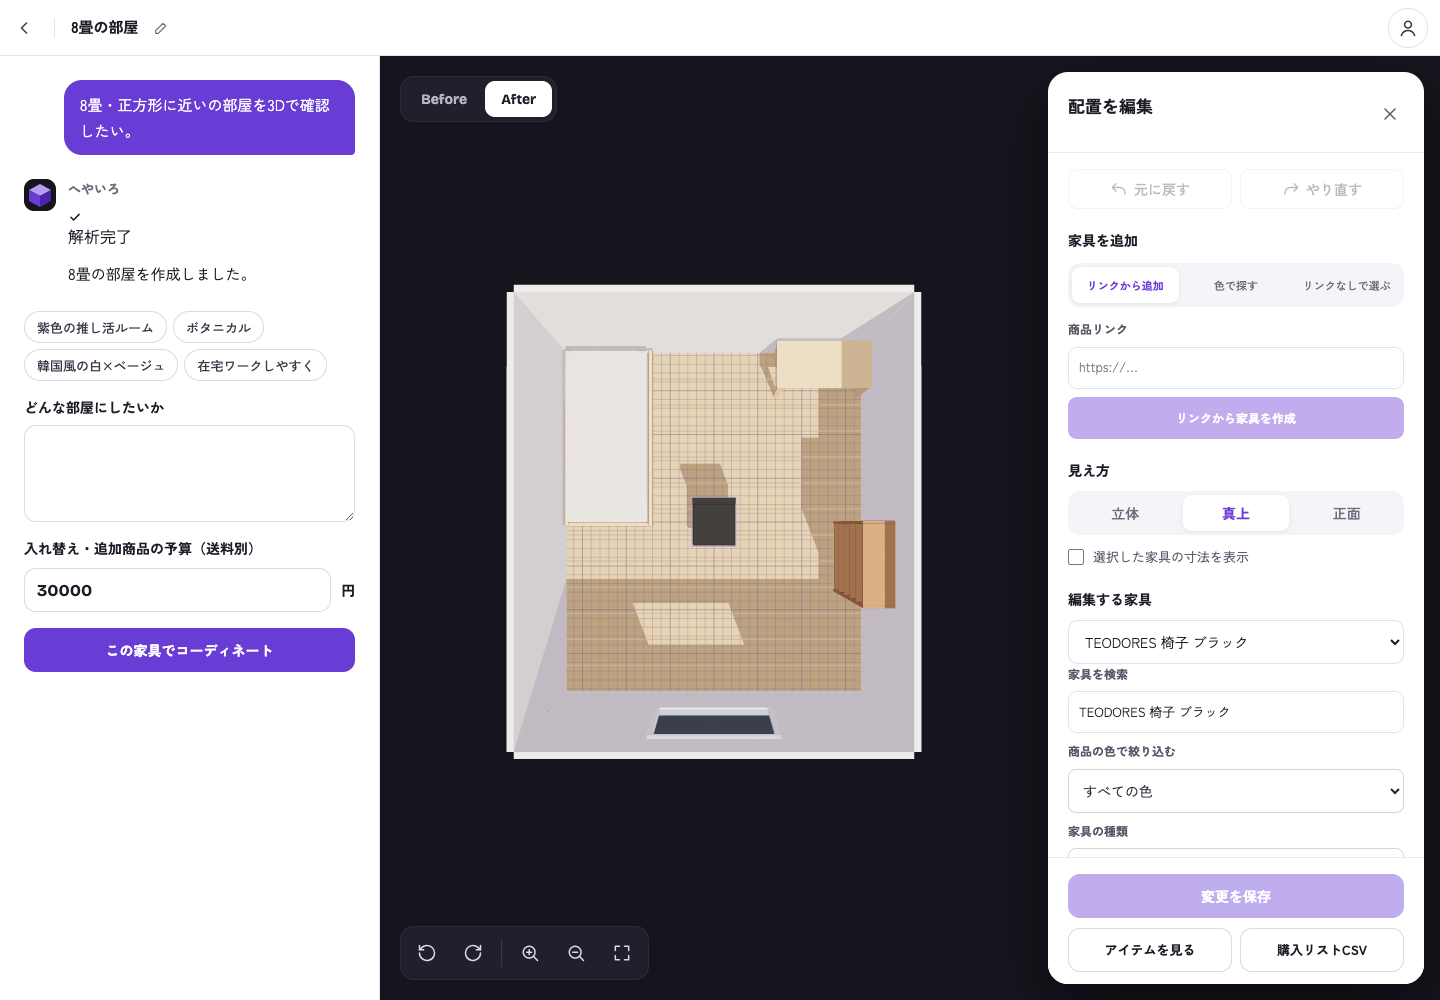
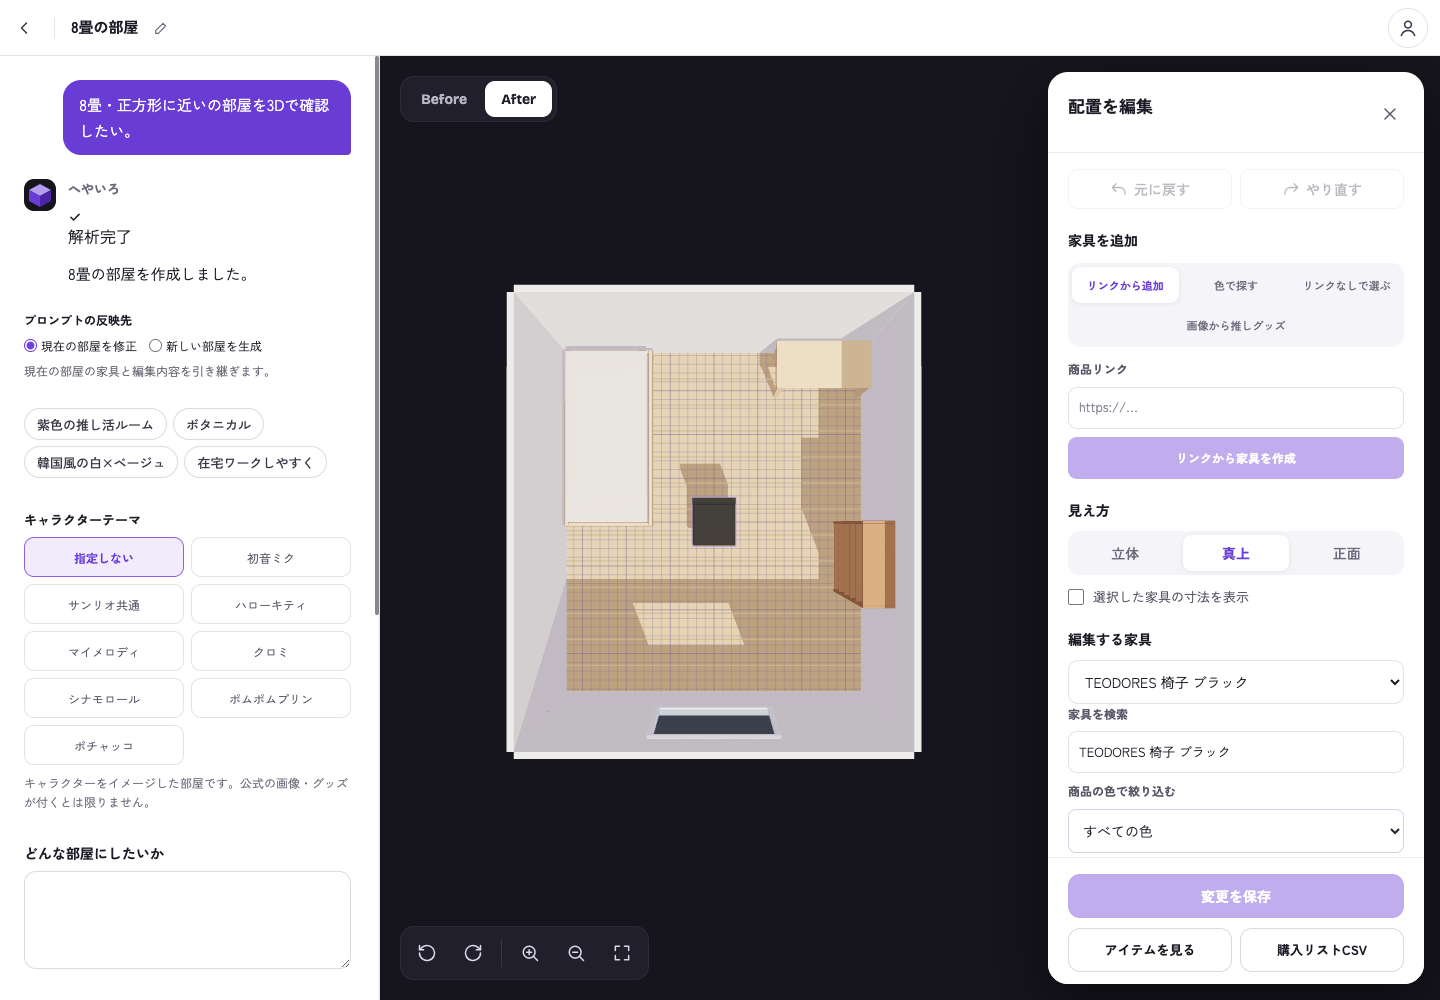
Refresh final integrated manual replacement evidence

diff --git a/docs/pr-evidence/issue-79/README.md b/docs/pr-evidence/issue-79/README.md
@@ -8,7 +8,7 @@ The screenshots use the actual React/Three.js editor on an isolated browser cont
 4. Another reversible product selection and undo returns to the saved black chair; the saved original replacement action remains replace. Original-to-replacement undo was observed earlier, before the final undo operation-state fix. Final original-operation reset was reviewed in code, not rerun from a cleared saved overlay.
 5. At 390 × 844 the editor has no horizontal page overflow, but the inherited split-pane layout leaves the editor too narrow; responsive layout is tracked separately in #70. [Mobile editor](mobile-replacement.png).
 
-Final manual UI check: add the white product through the existing link palette (owned ecProductId 791), replace it with the verified black product (purchase ecProductId 792), save/reload, and capture the actual frontend request. It retains ec_product_id 791 and sends replacement_ec_product_id 792 for the same manual UUID, with action replace. [Manual replacement after reload](manual-purchase.png). No browser page errors occurred.
+Final manual UI check: add the white product through the existing link palette (owned ecProductId 791), replace it with the verified black product (purchase ecProductId 792), save/reload, and capture the actual frontend request. It retains ec_product_id 791 and sends replacement_ec_product_id 792 for the same manual UUID, with action replace. [Manual replacement after reload](manual-purchase.png). The final replay on the merged dependency also transmits character_theme_id pochacco and room_palette_id warm-ivory. Choosing the new-room destination creates a dimension-only request (8 tatami, square), without carrying current furniture edits. No browser page errors occurred.
 
 Existing checks: 51 RSpec examples pass; Swagger generation 44 examples; frontend API type generation, lint, production build; changed Ruby files pass RuboCop. Build reports the existing large-chunk warning.
 
